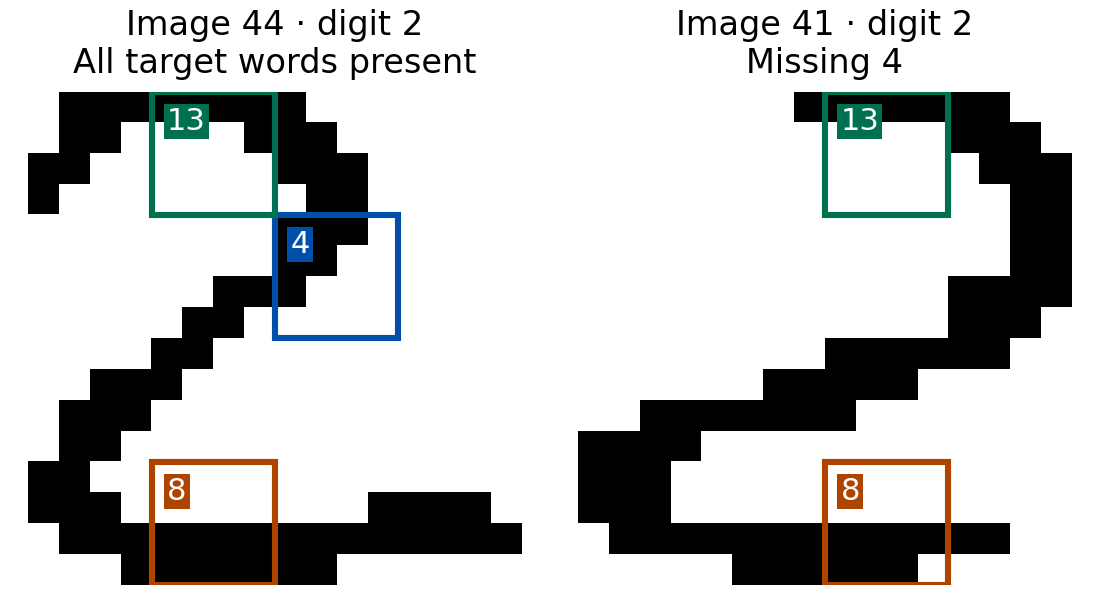
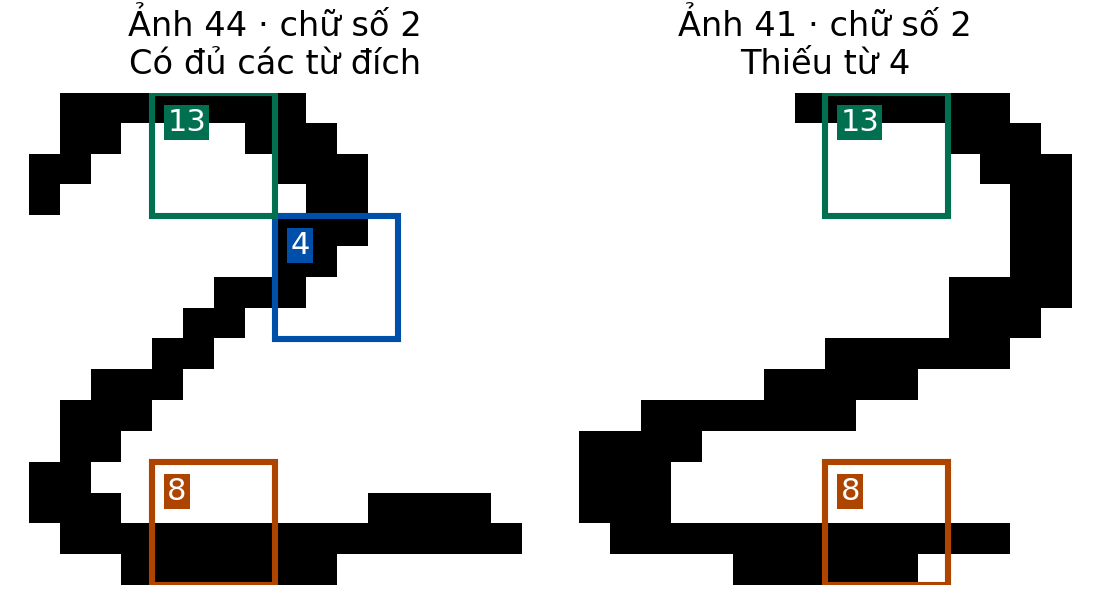
docs: give each report figure a Vietnamese and an English copy
figures/ now holds the Vietnamese-labeled figures for main.tex and figures/en/ the English ones for main-en.tex. The width figure uses the CLI rerun for its process-scope panels. The README gives the commands that regenerate each pair.

Refs DAT-24

diff --git a/docs/report/README.md b/docs/report/README.md
@@ -22,8 +22,10 @@ tectonic -X compile main.tex
 
 Bản tiếng Anh `main-en.tex` dịch cùng nội dung trong `sections-en/` cho người đọc
 không đọc tiếng Việt. Bản nộp chấm điểm vẫn là bản tiếng Việt theo đề. Bản tiếng Anh
-dùng chung `references.bib` và các hình, trừ hai hình có nhãn tiếng Việt đã có bản tiếng
-Anh trong `figures/en/`. Khi sửa một mục, sửa cả hai bản. Biên dịch:
+dùng chung `references.bib`. Mỗi hình có nhãn chữ có hai bản: bản tiếng Việt trong
+`figures/` cho `main.tex` và bản tiếng Anh trong `figures/en/` cho `main-en.tex`. Mỗi kịch
+bản vẽ nhận `--language vi` cho bản tiếng Việt và mặc định là tiếng Anh. Khi sửa một mục,
+sửa cả hai bản. Biên dịch:
 
 ```sh
 tectonic -X compile main-en.tex
@@ -56,5 +58,20 @@ uv run --no-project --python 3.12 --with matplotlib==3.10.7 python scripts/plot_
 Lệnh thứ nhất tạo hình có nhãn tiếng Việt cho `main.tex`. Lệnh thứ hai tạo bản nhãn
 tiếng Anh cho `main-en.tex`.
 
+## Tạo lại hình thời gian chạy và hình độ dài giao dịch
+
+[Bản ghi đợt đo thời gian](../runtime-curves-2026-11-17.md#reproduce) tạo
+`results/figures/runtime/curves.csv`. Từ tệp đó, hai lệnh sau vẽ hai bản của hình thời gian
+chạy:
+
+```sh
+uv run --no-project --python 3.12 --with matplotlib==3.11.2 python scripts/plot_runtime_curves.py results/figures/runtime/curves.csv --language vi --out docs/report/figures
+uv run --no-project --python 3.12 --with matplotlib==3.11.2 python scripts/plot_runtime_curves.py results/figures/runtime/curves.csv --out docs/report/figures/en
+```
+
+[Bản ghi độ dài giao dịch qua dòng lệnh](../bbq-width-cli-2026-11-28.md#reproduce) có lệnh
+vẽ `width-curves.png` với `--language vi` và mặc định tiếng Anh theo cùng cách.
+
 [Hướng dẫn ứng dụng ảnh](../../applications/image_patterns/README.md#reproduce-the-sensitivity-study)
-có lệnh tạo bảng độ nhạy và hình đối chiếu Semeion.
+có lệnh tạo bảng độ nhạy và hình đối chiếu Semeion. Thêm `--language vi` vào lệnh
+`plot_image_evidence.py` để tạo bản tiếng Việt.
